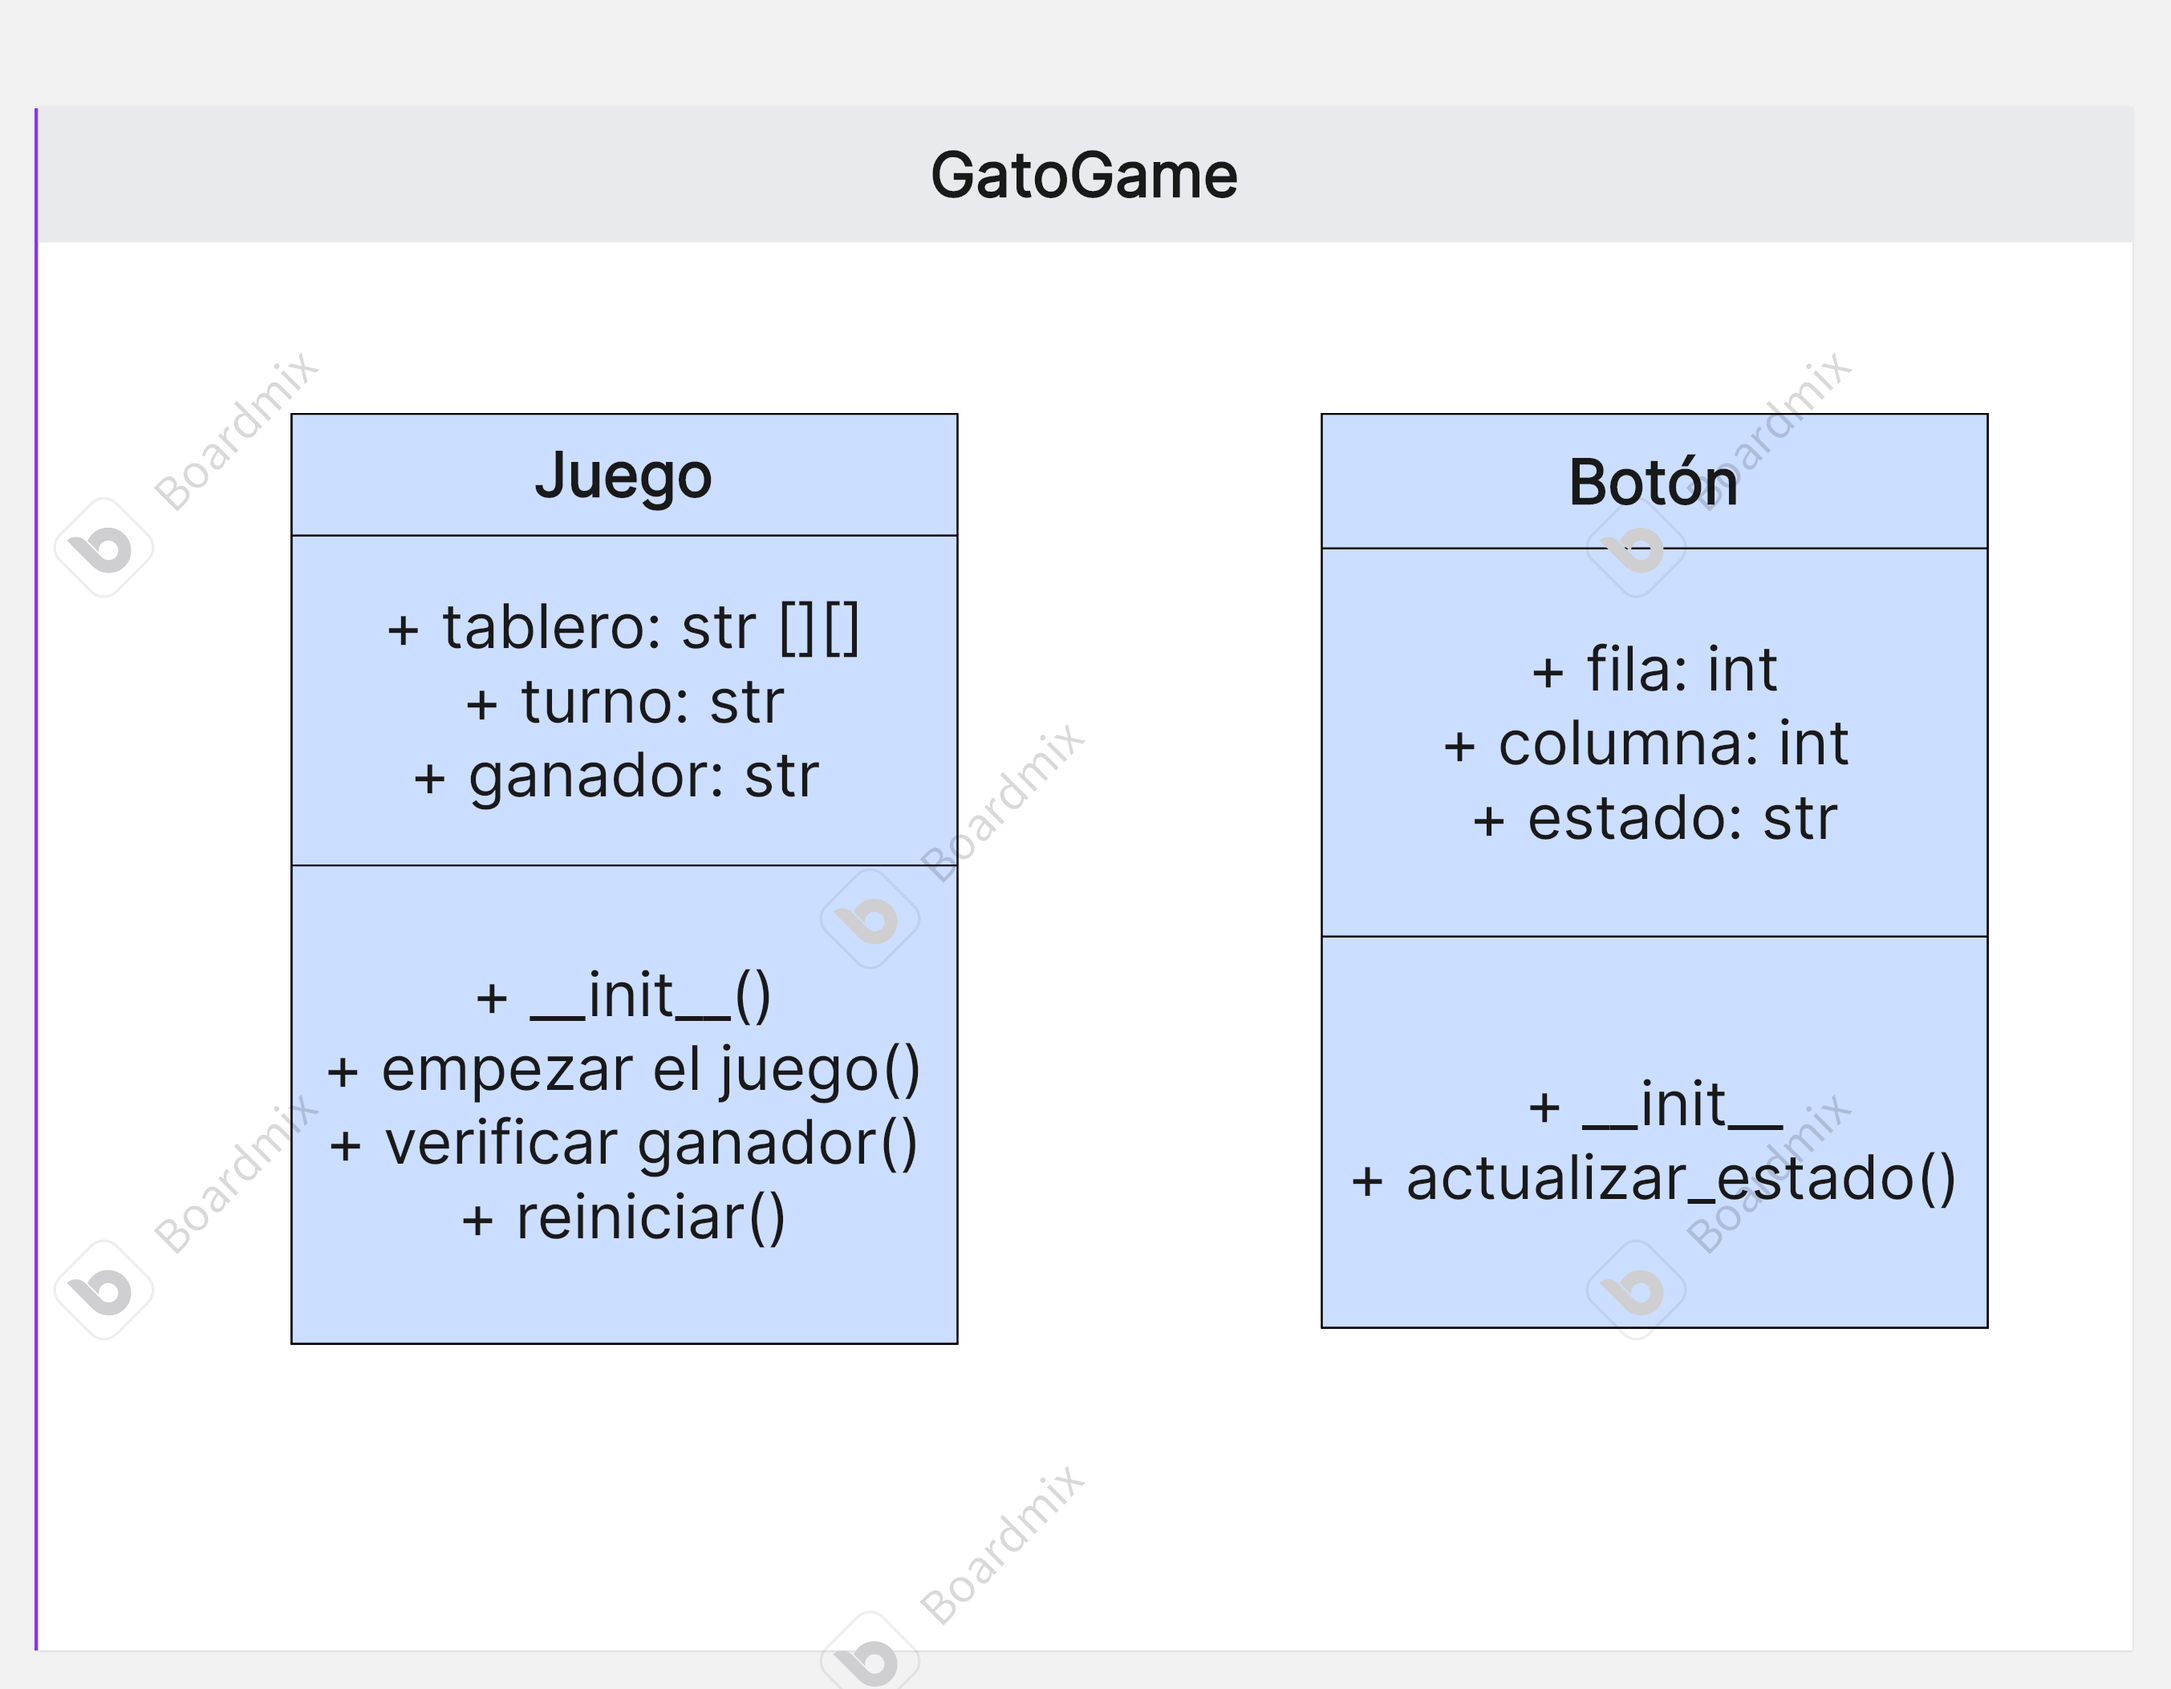
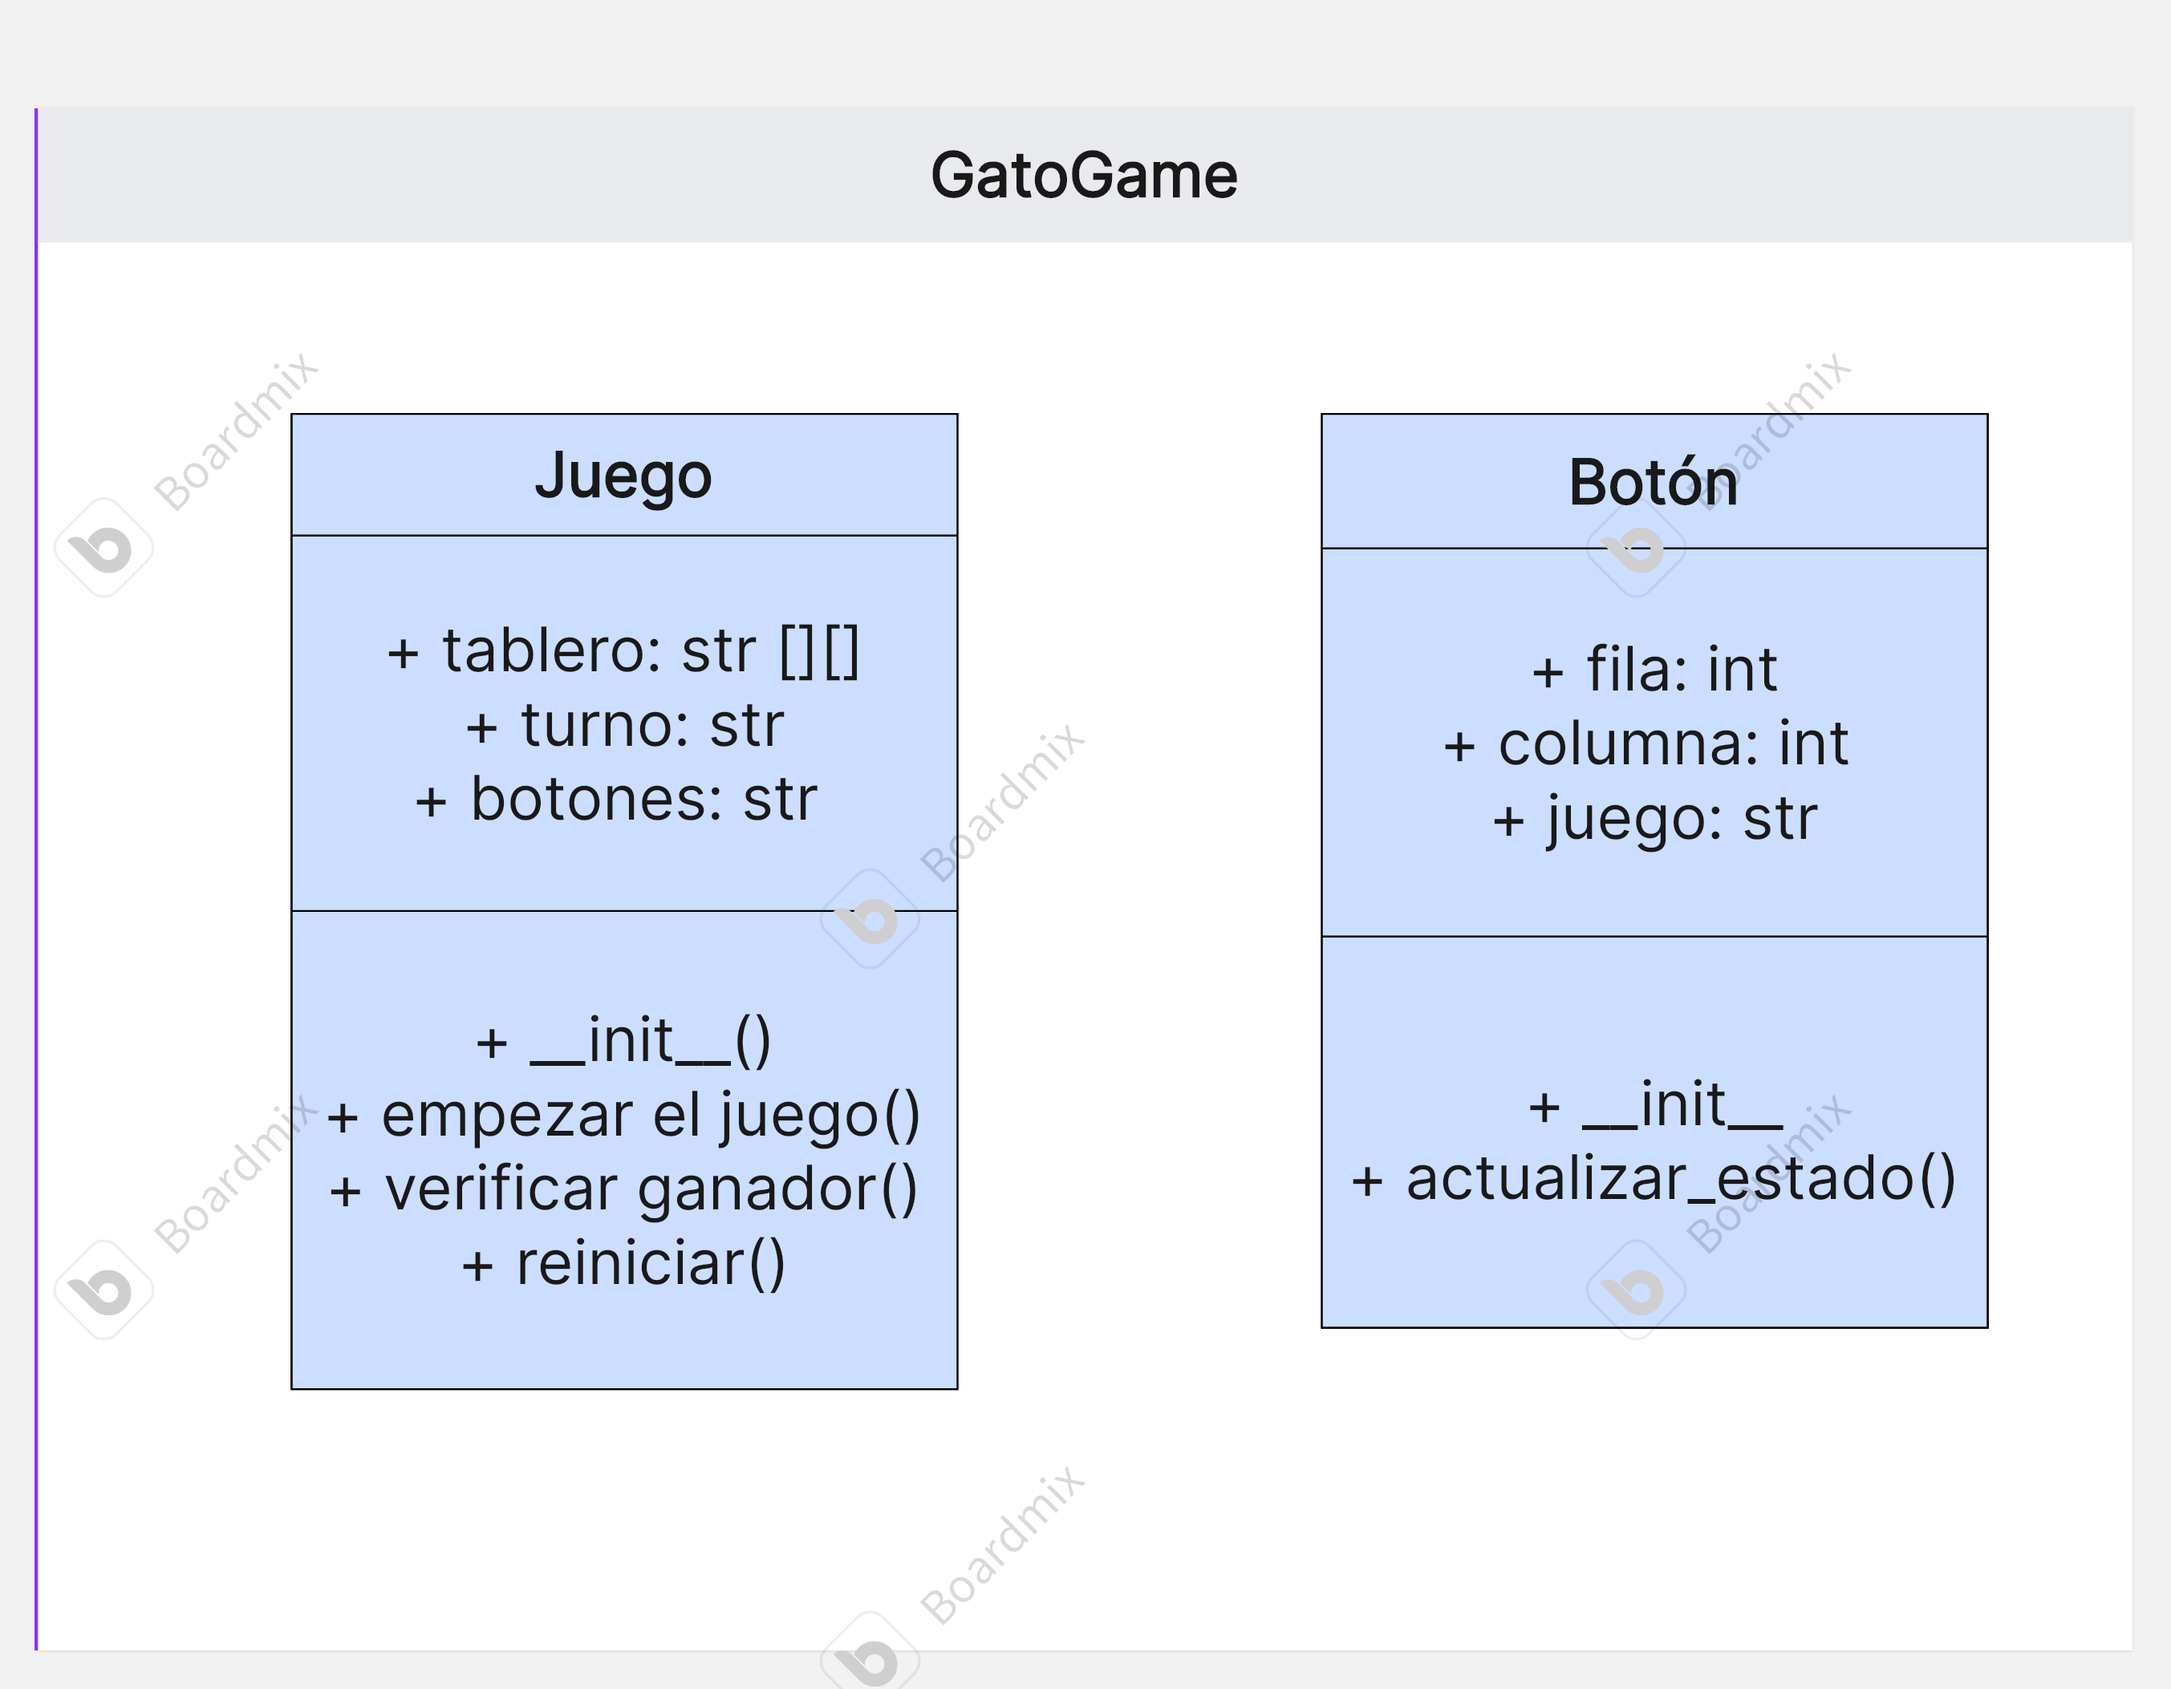
correciones

Changed region(s): [[0.1242, 0.5556, 0.4656, 0.8333], [0.1863, 0.3395, 0.4035, 0.4938], [0.6829, 0.463, 0.8381, 0.5247]]

diff --git a/index.html b/index.html
@@ -40,12 +40,12 @@
 
     <p>str Tablero : Atributo de instancia. Matriz que representa el estado del tablero</p>
     <p>str Turno : Atributo de instancia. Indica de quien es el turno actual (x o 0)</p>
-    <p>str botones : Atributo de instancia. Almacena los botones que se colocan en el tablero</p>
-    <P>master : Atributo de instancia. Todos los elementos que se crean dentro de la clase juego (como los botones en este caso) se asocian a la ventana principal mediante el argumento master. </P>
+    <p>str Botones : Atributo de instancia. Almacena los botones que se colocan en el tablero</p>
+    <P>Master : Atributo de instancia. Todos los elementos que se crean dentro de la clase juego (como los botones en este caso) se asocian a la ventana principal mediante el argumento master. </P>
     <p>__init__ : Inicializa el juego</p>
-    <p>Empezar_el_juego : Actualiza el tablero con la jugada actual</p>
+    <p>Empezar_el_juego : Maneja las acciones al presionar un botón.</p>
     <p>Verificar_ganador : Comprueba si hay un ganador o si es empate</p>
-    <p>reiniciar : reinicia el estado del juego</p>
+    <p>reiniciar : Reinicia el estado del juego</p>
 
     <h2>Clase Boton</h2> 
     <ul>
